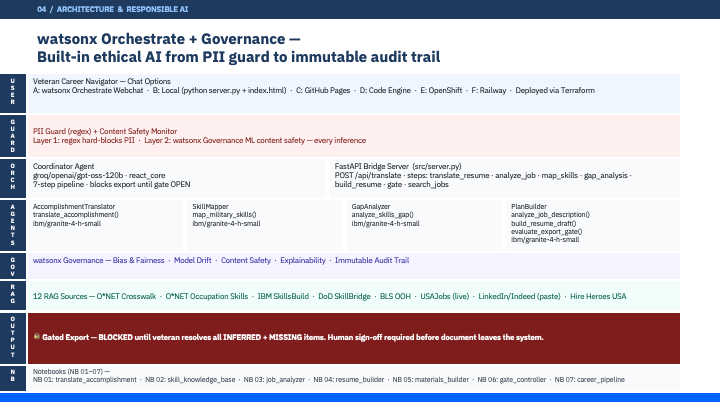
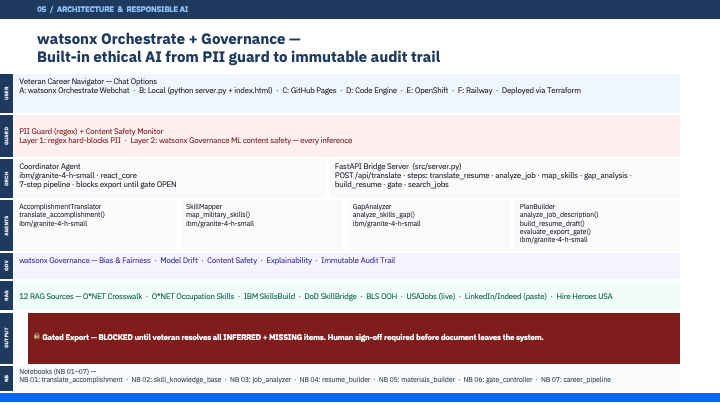
Highlight granite.

diff --git a/docs/images/source/mission-veteran-ai-architecture.html b/docs/images/source/mission-veteran-ai-architecture.html
@@ -66,11 +66,11 @@
 
 <h1>Mission Veteran AI — Architecture</h1>
 <p class="subtitle">
-  Agent LLM: groq/openai/gpt-oss-120b (Orchestrate reasoning)  ·  Toolkit inference: ibm/granite-4-h-small (watsonx.ai)  ·  watsonx Governance  ·  Terraform-provisioned  ·  12 RAG sources
+  Agent LLM: ibm/granite-4-h-small (Orchestrate reasoning · watsonx.ai)  ·  watsonx Governance  ·  Terraform-provisioned  ·  12 RAG sources
 </p>
 
 <div class="legend">
-  <div class="legend-item"><div class="swatch-sq"></div> watsonx.ai + Orchestrate (LLM inference)</div>
+  <div class="legend-item"><div class="swatch-sq"></div> ibm/granite-4-h-small — watsonx.ai + Orchestrate (LLM inference)</div>
   <div class="legend-item"><div class="swatch" style="background:#e0e7ff;border-color:#a5b4fc"></div> watsonx Governance</div>
   <div class="legend-item"><div class="swatch" style="background:#f0fdfa;border-color:#5eead4"></div> Static / embedded RAG source</div>
   <div class="legend-item"><div class="swatch" style="background:#fef9c3;border-color:#fde047"></div> Pending / live API RAG source</div>
@@ -151,7 +151,7 @@
     <div class="col-left-right">
       <div class="section-dark">
         <div class="section-title" style="color:#fff">Coordinator Agent</div>
-        <div style="font-size:11px;color:#cbd5e1;line-height:1.5">watsonx Orchestrate · <span class="code" style="color:#93c5fd">groq/openai/gpt-oss-120b</span> · style: react_core</div>
+        <div style="font-size:11px;color:#cbd5e1;line-height:1.5">watsonx Orchestrate · <span class="code" style="color:#93c5fd">ibm/granite-4-h-small</span> · style: react_core</div>
         <div style="font-size:10px;color:#94a3b8;margin:6px 0;line-height:1.6" class="code">
           (service_branch, specialty_code,<br />
           service_summary, bullets,<br />
@@ -192,7 +192,7 @@
 
 <div class="arrow">↓</div>
 <div style="text-align:center;font-size:10px;color:#94a3b8;margin-bottom:4px">
-  groq/openai/gpt-oss-120b (all sub-agents · Orchestrate reasoning)  |  ibm/granite-4-h-small (all toolkit inference · watsonx.ai)
+  ibm/granite-4-h-small (all agents · Orchestrate reasoning + toolkit inference · watsonx.ai)
 </div>
 
 
